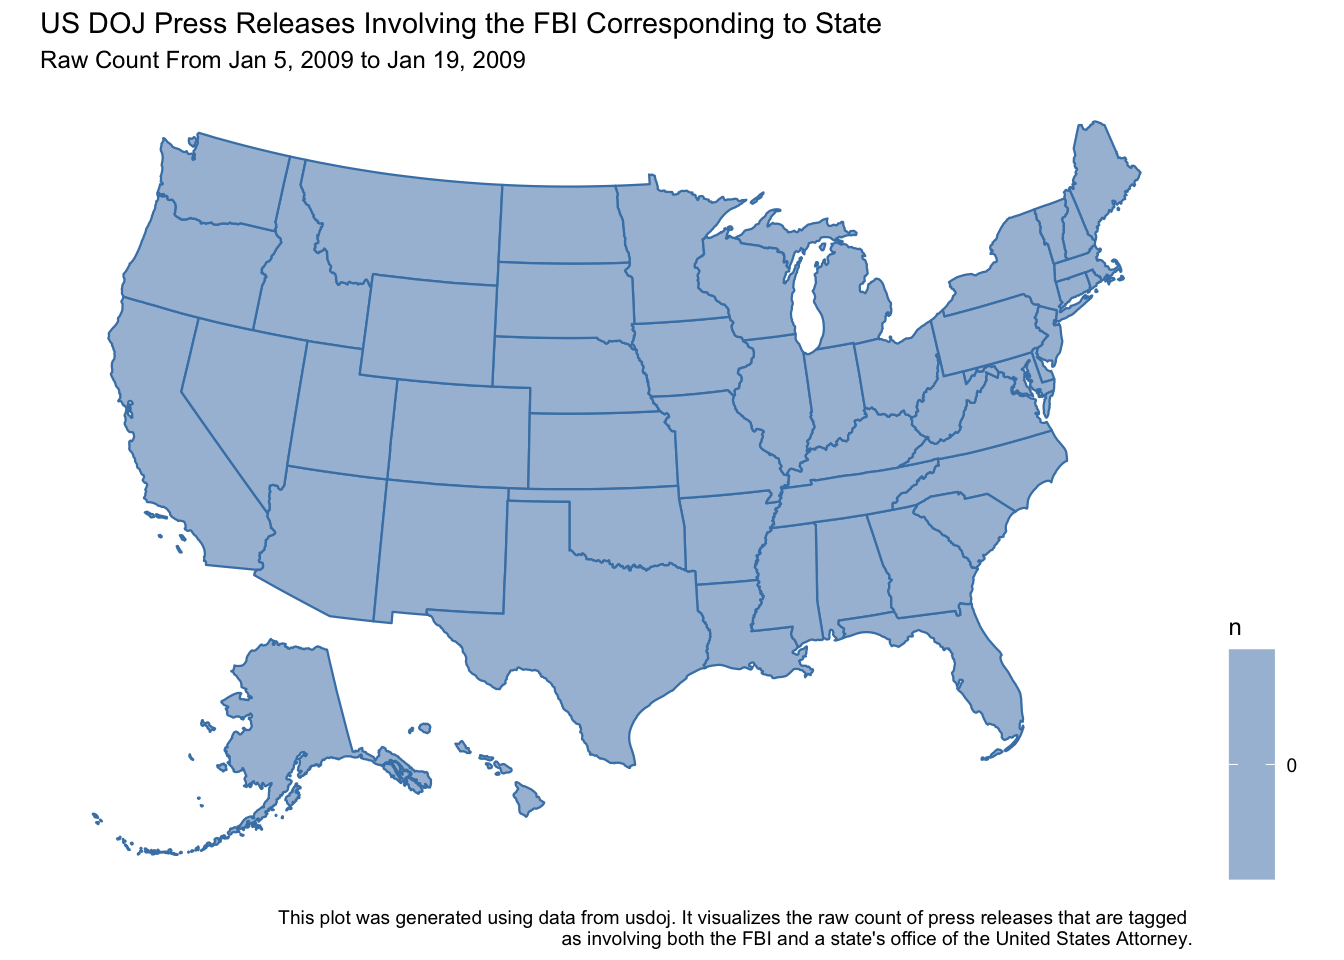
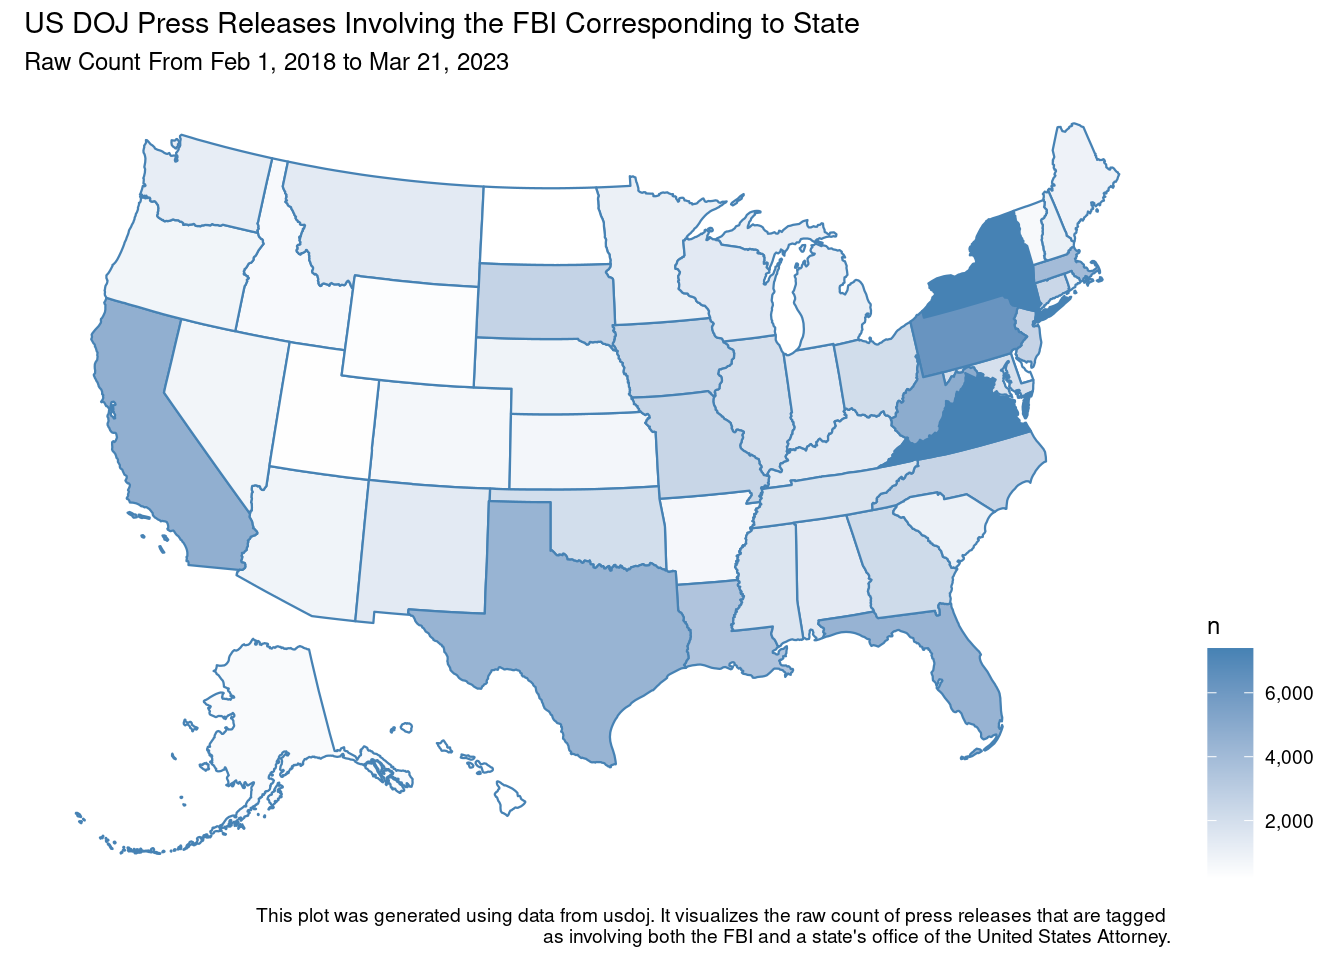
Add alt texts to images, update map

diff --git a/content/post/2023-04-01-usdoj-cran-release/index.en.md b/content/post/2023-04-01-usdoj-cran-release/index.en.md
@@ -10,6 +10,9 @@ tags:
   - open-data
   - R-bloggers
   - usdoj
+output:
+  blogdown::html_page:
+    highlight: tango
 ---
 
 usdoj, a package for fetching data from the United States (US) Department of Justice (DOJ) API, was released as part of the rOpenGov project. usdoj provides easy access to US DOJ press releases, blog entries, and speeches. Optional parameters allow users to specify the number of results starting from the earliest or latest entries, and whether these results contain keywords. Data is cleaned for analysis and returned in a data frame.
@@ -56,7 +59,11 @@ plot_usmap(data = df,
        as involving both the FBI and a state's office of the United States Attorney.") 
 ```
 
-![center](/post/2023-04-01-usdoj-cran-release.en_files/unnamed-chunk-1-1.png)
+{{< img src="/post/2023-04-01-usdoj-cran-release.en_files/unnamed-chunk-1-1.png"
+width="800"
+alt="A choropleth map of the United States, visualizing the number of press releases containing mentions to the FBI in each state"
+link="/post/2023-04-01-usdoj-cran-release.en_files/unnamed-chunk-1-1.png"
+align="center">}}
 
 ## Demonstration: Text Mining United States Department of Justice Open Data
 The data returned by usdoj is in a format that can easily undergo additional processing for analysis. The purpose of this section is to show one way of doing this while walking through the steps for performing a TF-IDF (term frequency-inverse document frequency) analysis in order to see which words are characteristic to certain divisions, and not others. 
@@ -190,5 +197,10 @@ ggplot(top_usao_press_releases,
   labs(x = "tf-idf", y = NULL)
 ```
 
-![center](/post/2023-04-01-usdoj-cran-release.en_files/unnamed-chunk-14-1.png)
+{{< img src="/post/2023-04-01-usdoj-cran-release.en_files/unnamed-chunk-14-1.png"
+width="800"
+alt="A graph containing barcharts for each US state, visualizing the TF-IDF Scores by USAO Grouping"
+link="/post/2023-04-01-usdoj-cran-release.en_files/unnamed-chunk-14-1.png"
+align="center">}}
+
 
